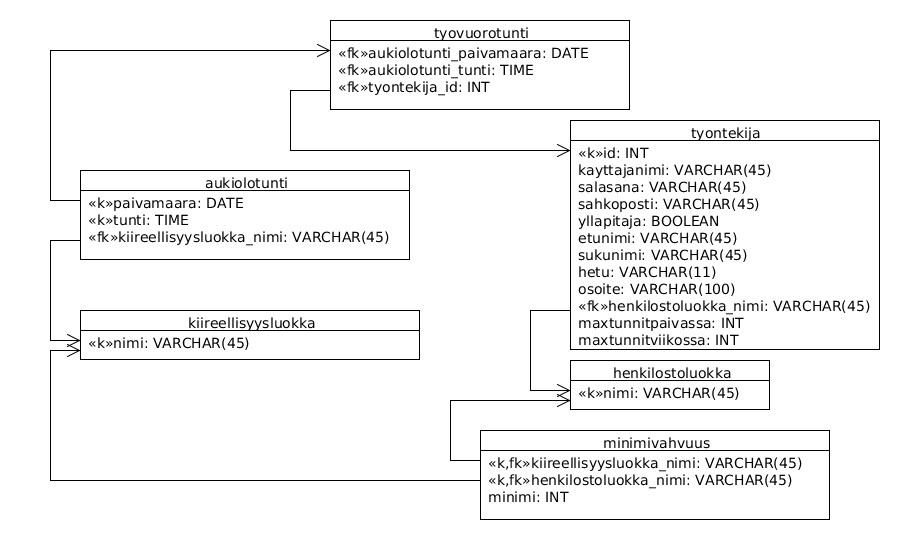
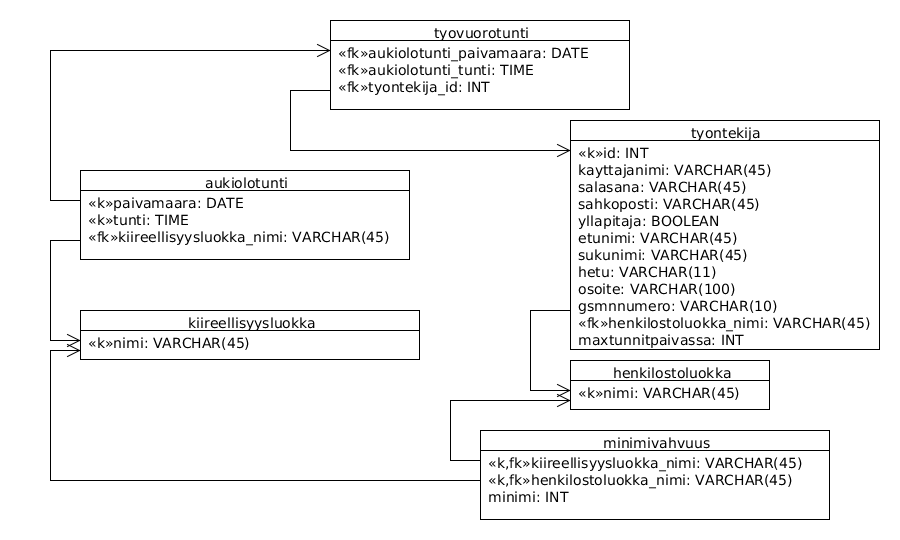
Korjaus sql taulukoihin ja tietokantakaavioon, työntekijän muokkaussivun päivitys

Changed region(s): [[0.6222, 0.5333, 0.9644, 0.6519]]

diff --git a/css/main.css b/css/main.css
@@ -2,6 +2,10 @@
     float:right
 }
 
+.tyontekijasarake{
+    width: 200px!important
+}
+
 .halfwrap{
-    width: 50%
+    width: 50%;
 }

diff --git a/html-demo/muokkaa-tyontekijaa.php b/html-demo/muokkaa-tyontekijaa.php
@@ -14,6 +14,25 @@
             </div>
         </div>
         <div class="form-group">
+            <label for="osoite" class="col-sm-2 control-label">Osoite</label>
+            <div class="col-sm-5">
+                <input type="text" class="form-control" id="tyontekija_osoite" value="Acmekatu 2, Jollywood">
+            </div>
+        </div>
+        
+        <div class="form-group">
+            <label for="sahkoposti" class="col-sm-2 control-label">Sähköposti</label>
+            <div class="col-sm-5">
+                <input type="text" class="form-control" id="tyontekija_sposti" value="vvemmel@lasema.fi">
+            </div>
+        </div>
+        <div class="form-group">
+            <label for="gsmnumero" class="col-sm-2 control-label">GSM</label>
+            <div class="col-sm-5">
+                <input type="text" class="form-control" id="tyontekija_gsmnumero" value="1234567890">
+            </div>
+        </div>
+        <div class="form-group">
             <label for="henkilostoluokka" class="col-sm-2 control-label">Henkilöstöluokka</label>
             <div class="col-sm-5">
                 <select class="form-control">
@@ -24,20 +43,22 @@
             </div>
         </div>
         <div class="form-group">
-            <label for="sahkoposti" class="col-sm-2 control-label">Sähköposti</label>
+            <label for="maxtunnitpaivassa" class="col-sm-2 control-label">Maksimi tunnit päivässä</label>
             <div class="col-sm-5">
-                <input type="text" class="form-control" id="tyontekija_sposti" value="vvemmel@lasema.fi">
+                <input type="text" class="form-control" id="tyontekija_maxtunnitpaivassa" value="12">
             </div>
         </div>
         <div class="form-group">
-            <label for="puhelinnumero" class="col-sm-2 control-label">Puhelinnumero</label>
+            <label for="maxtunnitviikossa" class="col-sm-2 control-label">Maksimi tunnit viikossa</label>
             <div class="col-sm-5">
-                <input type="text" class="form-control" id="tyontekija_puhnumero" value="1234567890">
+                <input type="text" class="form-control" id="tyontekija_maxtunnitviikossa" value="60">
             </div>
         </div>
         <div class="form-group">
             <div class="col-sm-offset-2 col-sm-10">
                 <button type="submit" class="btn btn-default">Tallenna</button>
+                <button type="cancel" class="btn btn-default">Peruuta</button>
+                <button type="cancel" class="btn btn-default">Poista työntekijä</button>
             </div>
         </div>
     </form>

diff --git a/html-demo/tyovuorolistat.php b/html-demo/tyovuorolistat.php
@@ -6,16 +6,6 @@
         <li><a href="#">Viikko 27.3.-2.4.2014</a></li>
         <li class="next"><a href="#">Seuraava viikko &rarr;</a></li>
     </ul>
-    <!--        <ul class="nav nav-pills" style="width: 100%">
-                <li class="active" style="width: 100%"><a href="#">Ma 27.3.</a></li>
-                <li style="width: 100%"><a href="#">Ti 28.3.</a></li>
-                <li><a href="#">Ke 29.3.</a></li>
-                <li><a href="#">To 30.3.</a></li> 
-                <li><a href="#">Pe 31.3.</a></li>
-                <li><a href="#">La 1.4.</a></li>
-                <li><a href="#">Su 2.4.</a></li>
-            </ul>-->
-
     <ul class="nav nav-justified">
         <li class="span active"><a href="#">Ma 27.3.</a></li>
         <li><a href="#">Ti 28.3.</a></li>
@@ -26,12 +16,9 @@
         <li><a href="#">Su 2.4.</a></li>
     </ul>
         <table id="tyovuorolistaus" class="table table-striped table-bordered table-condensed">
-            <colgroup>
-                <col span="1" class="col-md-10">
-            </colgroup>
             <thead>
                 <tr>              
-                    <th class="col-sm-12"></th>
+                    <th class="tyontekijasarake"></th>
                     <th class="halfwrap"><div class="text-center">00:00-01:00</div></th>
                     <th class="halfwrap"><div class="text-center">01:00-02:00</div></th>
                     <th class="halfwrap"><div class="text-center">02:00-03:00</div></th>
@@ -76,6 +63,7 @@
                     <td><div class="text-center"><span class="glyphicon glyphicon-ok"></span></div></td>
                     <td><div class="text-center"><span class="glyphicon glyphicon-ok"></span></div></td>
                     <td><div class="text-center"><span class="glyphicon glyphicon-ok"></span></div></td>
+                    <td></td>
                     <td></td>
                     <td></td>
                     <td></td>
